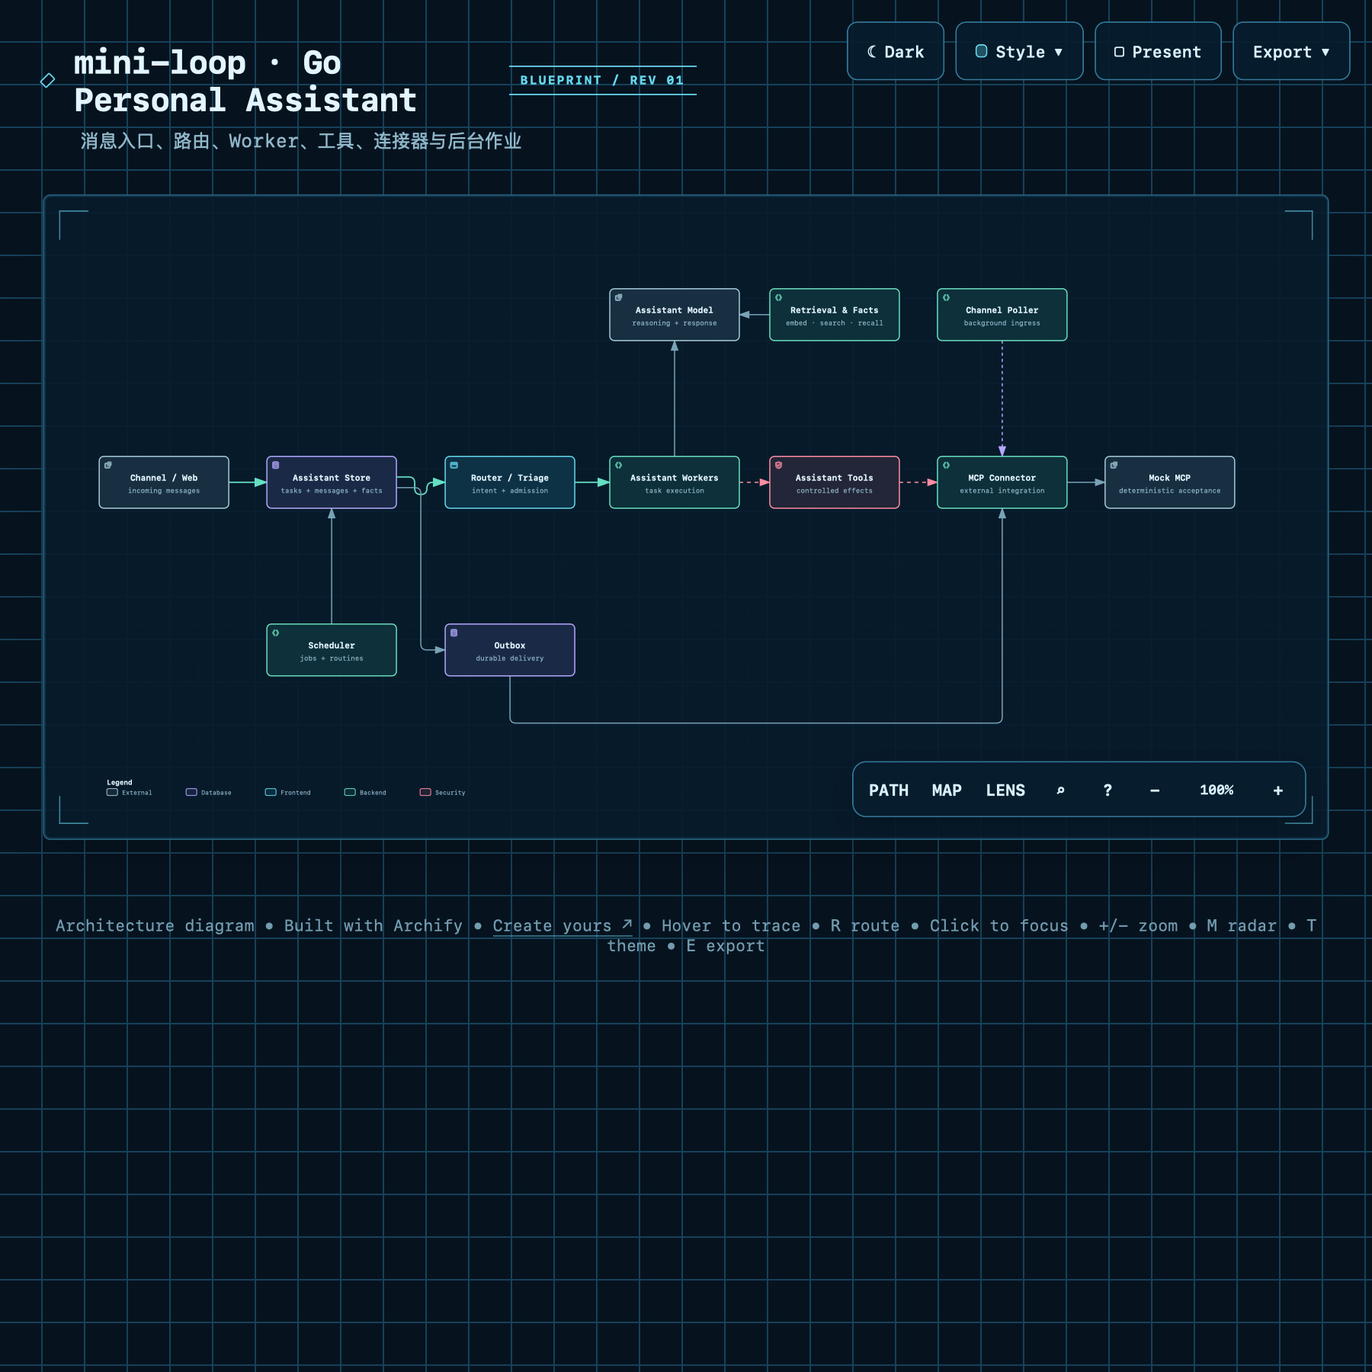
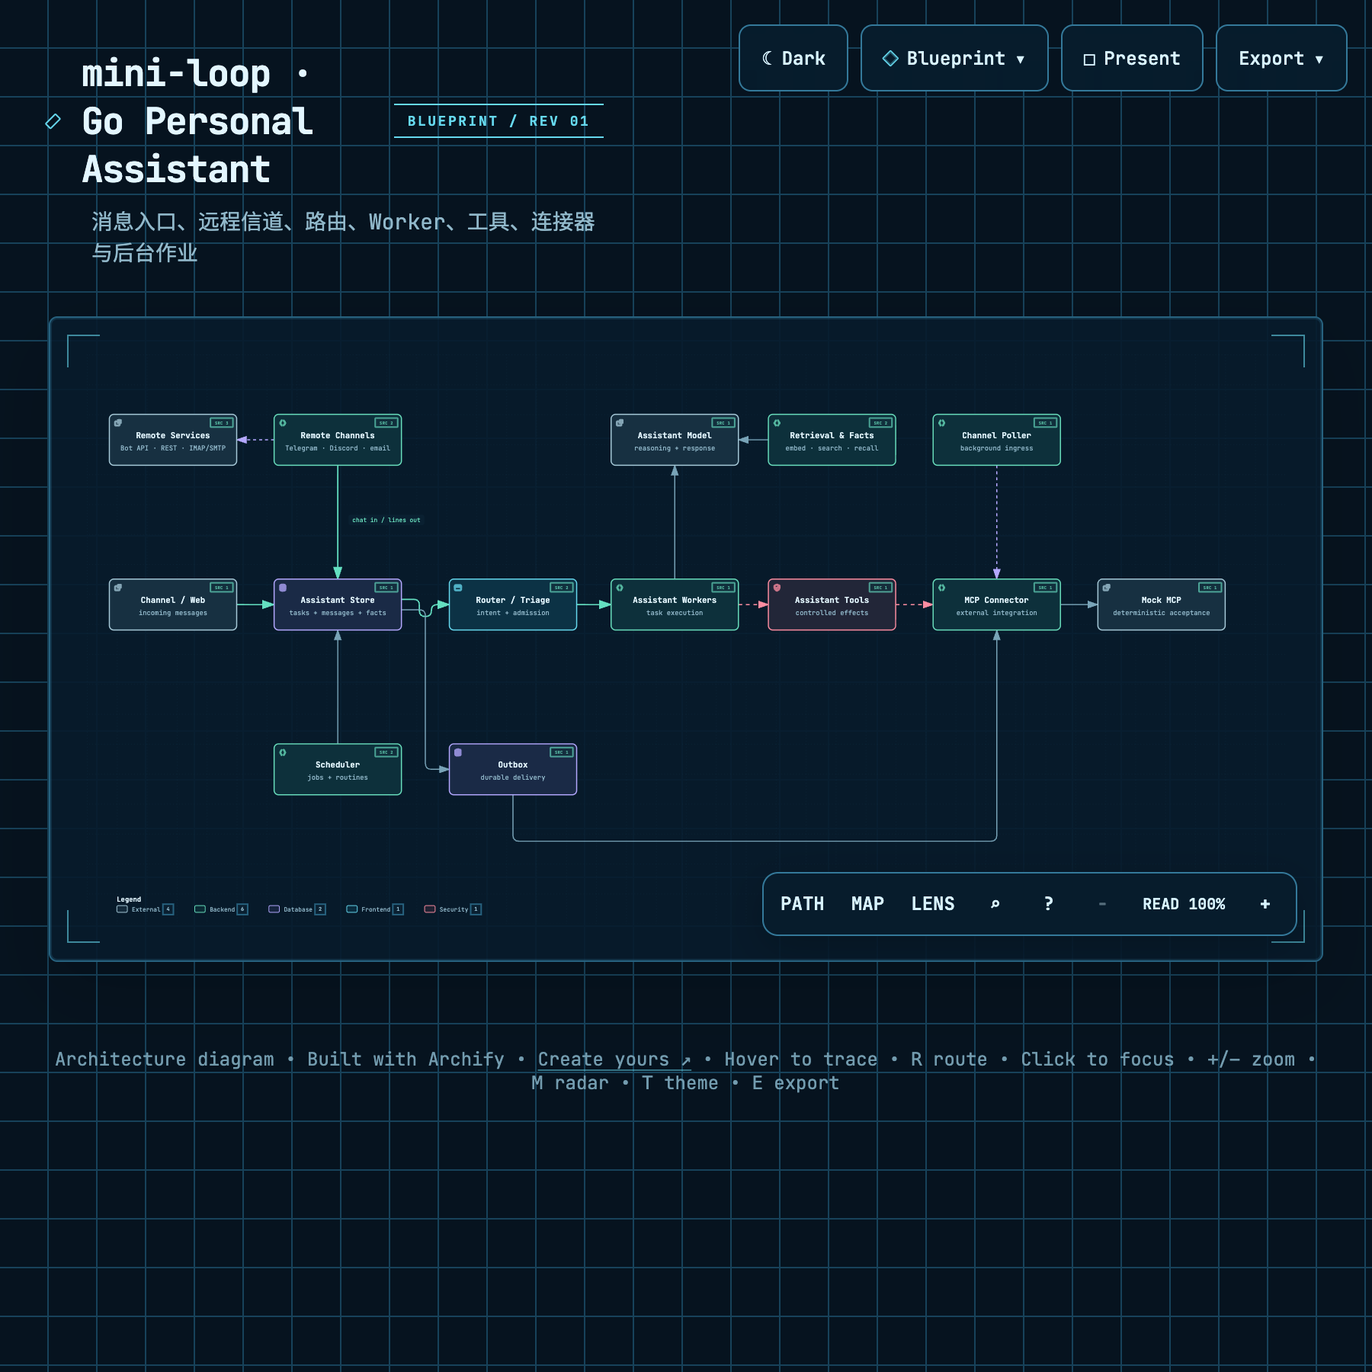
docs(architecture): show remote channels in the personal-assistant view
The focused Go personal-assistant view from 99c5721 now includes the D10
remote channels: a Remote Channels bridge above the store ("chat in / lines
out") and the Telegram, Discord and mail services beside it. The view was
regenerated with Archify (showcase, 9/9, no errors or warnings) against
dbaf48a, and its 1800 px preview was re-rendered.

Claude-Session: https://claude.ai/code/session_011bYGPJ5pexbat7kUKn2czE

diff --git a/docs/architecture/personal-assistant.html b/docs/architecture/personal-assistant.html
@@ -4498,11 +4498,11 @@
         <div class="pulse-dot"></div>
         <h1>mini-loop · Go Personal Assistant</h1>
       </div>
-      <p class="subtitle">消息入口、路由、Worker、工具、连接器与后台作业</p>
+      <p class="subtitle">消息入口、远程信道、路由、Worker、工具、连接器与后台作业</p>
     </div>
 
     <script id="archify-guided-views-data" type="application/json">[]</script>
-    <script id="archify-source-evidence-data" type="application/json">{"schemaVersion":1,"verified":true,"repository":{"url":"https://github.com/luoyjx/mini-loop","revision":"16ee882d9761d9b2c81e17214821da97e6e443b8","shortRevision":"16ee882"},"referenceCount":15,"nodes":{"channel":[{"path":"go/assistant/server.go","href":"https://github.com/luoyjx/mini-loop/blob/16ee882d9761d9b2c81e17214821da97e6e443b8/go/assistant/server.go"}],"store":[{"path":"go/assistant/store.go","href":"https://github.com/luoyjx/mini-loop/blob/16ee882d9761d9b2c81e17214821da97e6e443b8/go/assistant/store.go"}],"router":[{"path":"go/assistant/router.go","href":"https://github.com/luoyjx/mini-loop/blob/16ee882d9761d9b2c81e17214821da97e6e443b8/go/assistant/router.go"},{"path":"go/assistant/triage.go","href":"https://github.com/luoyjx/mini-loop/blob/16ee882d9761d9b2c81e17214821da97e6e443b8/go/assistant/triage.go"}],"workers":[{"path":"go/assistant/tasks.go","href":"https://github.com/luoyjx/mini-loop/blob/16ee882d9761d9b2c81e17214821da97e6e443b8/go/assistant/tasks.go"}],"tools":[{"path":"go/assistant/tools.go","href":"https://github.com/luoyjx/mini-loop/blob/16ee882d9761d9b2c81e17214821da97e6e443b8/go/assistant/tools.go"}],"connector":[{"path":"go/assistant/connector.go","href":"https://github.com/luoyjx/mini-loop/blob/16ee882d9761d9b2c81e17214821da97e6e443b8/go/assistant/connector.go"}],"mock":[{"path":"go/assistant/mockmcp.go","href":"https://github.com/luoyjx/mini-loop/blob/16ee882d9761d9b2c81e17214821da97e6e443b8/go/assistant/mockmcp.go"}],"model":[{"path":"go/assistant/model.go","href":"https://github.com/luoyjx/mini-loop/blob/16ee882d9761d9b2c81e17214821da97e6e443b8/go/assistant/model.go"}],"retrieval":[{"path":"go/assistant/retrieval.go","href":"https://github.com/luoyjx/mini-loop/blob/16ee882d9761d9b2c81e17214821da97e6e443b8/go/assistant/retrieval.go"},{"path":"go/assistant/facts.go","href":"https://github.com/luoyjx/mini-loop/blob/16ee882d9761d9b2c81e17214821da97e6e443b8/go/assistant/facts.go"}],"poller":[{"path":"go/assistant/poller.go","href":"https://github.com/luoyjx/mini-loop/blob/16ee882d9761d9b2c81e17214821da97e6e443b8/go/assistant/poller.go"}],"scheduler":[{"path":"go/assistant/jobs.go","href":"https://github.com/luoyjx/mini-loop/blob/16ee882d9761d9b2c81e17214821da97e6e443b8/go/assistant/jobs.go"},{"path":"go/assistant/routines.go","href":"https://github.com/luoyjx/mini-loop/blob/16ee882d9761d9b2c81e17214821da97e6e443b8/go/assistant/routines.go"}],"outbox":[{"path":"go/assistant/outbox.go","href":"https://github.com/luoyjx/mini-loop/blob/16ee882d9761d9b2c81e17214821da97e6e443b8/go/assistant/outbox.go"}]}}</script>
+    <script id="archify-source-evidence-data" type="application/json">{"schemaVersion":1,"verified":true,"repository":{"url":"https://github.com/luoyjx/mini-loop","revision":"dbaf48affe5889ebfc991208b28480853c4c53c2","shortRevision":"dbaf48a"},"referenceCount":20,"nodes":{"channel":[{"path":"go/assistant/server.go","href":"https://github.com/luoyjx/mini-loop/blob/dbaf48affe5889ebfc991208b28480853c4c53c2/go/assistant/server.go"}],"remoteSvc":[{"path":"go/assistant/telegram.go","href":"https://github.com/luoyjx/mini-loop/blob/dbaf48affe5889ebfc991208b28480853c4c53c2/go/assistant/telegram.go"},{"path":"go/assistant/discord.go","href":"https://github.com/luoyjx/mini-loop/blob/dbaf48affe5889ebfc991208b28480853c4c53c2/go/assistant/discord.go"},{"path":"go/assistant/imap.go","href":"https://github.com/luoyjx/mini-loop/blob/dbaf48affe5889ebfc991208b28480853c4c53c2/go/assistant/imap.go"}],"remote":[{"path":"go/assistant/remote.go","href":"https://github.com/luoyjx/mini-loop/blob/dbaf48affe5889ebfc991208b28480853c4c53c2/go/assistant/remote.go"},{"path":"go/assistant/email.go","href":"https://github.com/luoyjx/mini-loop/blob/dbaf48affe5889ebfc991208b28480853c4c53c2/go/assistant/email.go"}],"store":[{"path":"go/assistant/store.go","href":"https://github.com/luoyjx/mini-loop/blob/dbaf48affe5889ebfc991208b28480853c4c53c2/go/assistant/store.go"}],"router":[{"path":"go/assistant/router.go","href":"https://github.com/luoyjx/mini-loop/blob/dbaf48affe5889ebfc991208b28480853c4c53c2/go/assistant/router.go"},{"path":"go/assistant/triage.go","href":"https://github.com/luoyjx/mini-loop/blob/dbaf48affe5889ebfc991208b28480853c4c53c2/go/assistant/triage.go"}],"workers":[{"path":"go/assistant/tasks.go","href":"https://github.com/luoyjx/mini-loop/blob/dbaf48affe5889ebfc991208b28480853c4c53c2/go/assistant/tasks.go"}],"tools":[{"path":"go/assistant/tools.go","href":"https://github.com/luoyjx/mini-loop/blob/dbaf48affe5889ebfc991208b28480853c4c53c2/go/assistant/tools.go"}],"connector":[{"path":"go/assistant/connector.go","href":"https://github.com/luoyjx/mini-loop/blob/dbaf48affe5889ebfc991208b28480853c4c53c2/go/assistant/connector.go"}],"mock":[{"path":"go/assistant/mockmcp.go","href":"https://github.com/luoyjx/mini-loop/blob/dbaf48affe5889ebfc991208b28480853c4c53c2/go/assistant/mockmcp.go"}],"model":[{"path":"go/assistant/model.go","href":"https://github.com/luoyjx/mini-loop/blob/dbaf48affe5889ebfc991208b28480853c4c53c2/go/assistant/model.go"}],"retrieval":[{"path":"go/assistant/retrieval.go","href":"https://github.com/luoyjx/mini-loop/blob/dbaf48affe5889ebfc991208b28480853c4c53c2/go/assistant/retrieval.go"},{"path":"go/assistant/facts.go","href":"https://github.com/luoyjx/mini-loop/blob/dbaf48affe5889ebfc991208b28480853c4c53c2/go/assistant/facts.go"}],"poller":[{"path":"go/assistant/poller.go","href":"https://github.com/luoyjx/mini-loop/blob/dbaf48affe5889ebfc991208b28480853c4c53c2/go/assistant/poller.go"}],"scheduler":[{"path":"go/assistant/jobs.go","href":"https://github.com/luoyjx/mini-loop/blob/dbaf48affe5889ebfc991208b28480853c4c53c2/go/assistant/jobs.go"},{"path":"go/assistant/routines.go","href":"https://github.com/luoyjx/mini-loop/blob/dbaf48affe5889ebfc991208b28480853c4c53c2/go/assistant/routines.go"}],"outbox":[{"path":"go/assistant/outbox.go","href":"https://github.com/luoyjx/mini-loop/blob/dbaf48affe5889ebfc991208b28480853c4c53c2/go/assistant/outbox.go"}]}}</script>
     <div class="guided-views no-print" id="guided-views" hidden aria-label="Guided diagram views">
       <button id="guided-view-prev" type="button" aria-label="Previous guided view" title="Previous guided view ([)">&#8592;</button>
       <div class="guided-view-copy">
@@ -4546,7 +4546,7 @@
     <div class="diagram-container" data-detail-level="read">
       <svg viewBox="0 0 1600 760" role="img" aria-labelledby="archify-diagram-title archify-diagram-description" data-preset="blueprint" data-quality-profile="showcase">
         <title id="archify-diagram-title">mini-loop · Go Personal Assistant</title>
-        <desc id="archify-diagram-description">消息入口、路由、Worker、工具、连接器与后台作业</desc>
+        <desc id="archify-diagram-description">消息入口、远程信道、路由、Worker、工具、连接器与后台作业</desc>
         <!-- Definitions -->
         <defs>
           <marker id="arrowhead" markerWidth="10" markerHeight="7" refX="9" refY="3.5" orient="auto">
@@ -4574,17 +4574,19 @@
 
         <!-- Connection paths (before components for correct z-order) -->
         <path data-edge-from="channel" data-edge-to="store" data-edge-key="0" data-edge-id="ingest" data-composition-points="200,334;250,334" d="M 200 334 L 250 334" class="a-emphasis" stroke-width="1.8" marker-end="url(#arrowhead-emphasis)"/>
-        <path data-edge-from="store" data-edge-to="router" data-edge-key="1" data-edge-id="route" data-composition-points="420,327;444,327;444,350;460,350;460,334;484,334" d="M 420 327 L 436 327 Q 444 327 444 335 L 444 342 Q 444 350 452 350 L 452 350 Q 460 350 460 342 L 460 342 Q 460 334 468 334 L 484 334" class="a-emphasis" stroke-width="1.8" marker-end="url(#arrowhead-emphasis)"/>
-        <path data-edge-from="router" data-edge-to="workers" data-edge-key="2" data-edge-id="dispatch" data-composition-points="654,334;700,334" d="M 654 334 L 700 334" class="a-emphasis" stroke-width="1.8" marker-end="url(#arrowhead-emphasis)"/>
-        <path data-edge-from="workers" data-edge-to="tools" data-edge-key="3" data-edge-id="act" data-composition-points="870,334;910,334" d="M 870 334 L 910 334" class="a-security" stroke-width="1.5" marker-end="url(#arrowhead-security)"/>
-        <path data-edge-from="tools" data-edge-to="connector" data-edge-key="4" data-edge-id="connect" data-composition-points="1080,334;1130,334" d="M 1080 334 L 1130 334" class="a-security" stroke-width="1.5" marker-end="url(#arrowhead-security)"/>
-        <path data-edge-from="connector" data-edge-to="mock" data-edge-key="5" data-edge-id="accept" data-composition-points="1300,334;1350,334" d="M 1300 334 L 1350 334" class="a-default" stroke-width="1.5" marker-end="url(#arrowhead)"/>
-        <path data-edge-from="workers" data-edge-to="model" data-edge-key="6" data-edge-id="reason" data-composition-points="785,300;785,148" d="M 785 300 L 785 148" class="a-default" stroke-width="1.5" marker-end="url(#arrowhead)"/>
-        <path data-edge-from="retrieval" data-edge-to="model" data-edge-key="7" data-edge-id="recall" data-composition-points="910,114;870,114" d="M 910 114 L 870 114" class="a-default" stroke-width="1.5" marker-end="url(#arrowhead)"/>
-        <path data-edge-from="poller" data-edge-to="connector" data-edge-key="8" data-edge-id="poll" data-composition-points="1215,148;1215,300" d="M 1215 148 L 1215 300" class="a-dashed" stroke-width="1.5" marker-end="url(#arrowhead-dashed)"/>
-        <path data-edge-from="scheduler" data-edge-to="store" data-edge-key="9" data-edge-id="schedule" data-composition-points="335,520;335,368" d="M 335 520 L 335 368" class="a-default" stroke-width="1.5" marker-end="url(#arrowhead)"/>
-        <path data-edge-from="store" data-edge-to="outbox" data-edge-key="10" data-edge-id="enqueue" data-composition-points="420,341;452,341;452,554;484,554" d="M 420 341 L 444 341 Q 452 341 452 349 L 452 546 Q 452 554 460 554 L 484 554" class="a-default" stroke-width="1.5" marker-end="url(#arrowhead)"/>
-        <path data-edge-from="outbox" data-edge-to="connector" data-edge-key="11" data-edge-id="deliver" data-composition-points="569,588;569,650;1215,650;1215,368" d="M 569 588 L 569 642 Q 569 650 577 650 L 1207 650 Q 1215 650 1215 642 L 1215 368" class="a-default" stroke-width="1.5" marker-end="url(#arrowhead)"/>
+        <path data-edge-from="remote" data-edge-to="store" data-edge-label="chat in / lines out" data-edge-key="1" data-edge-id="remoteChat" data-composition-points="335,148;335,300" d="M 335 148 L 335 300" class="a-emphasis" stroke-width="1.8" marker-end="url(#arrowhead-emphasis)"/>
+        <path data-edge-from="remote" data-edge-to="remoteSvc" data-edge-key="2" data-edge-id="remoteCall" data-composition-points="250,114;200,114" d="M 250 114 L 200 114" class="a-dashed" stroke-width="1.5" marker-end="url(#arrowhead-dashed)"/>
+        <path data-edge-from="store" data-edge-to="router" data-edge-key="3" data-edge-id="route" data-composition-points="420,327;444,327;444,350;460,350;460,334;484,334" d="M 420 327 L 436 327 Q 444 327 444 335 L 444 342 Q 444 350 452 350 L 452 350 Q 460 350 460 342 L 460 342 Q 460 334 468 334 L 484 334" class="a-emphasis" stroke-width="1.8" marker-end="url(#arrowhead-emphasis)"/>
+        <path data-edge-from="router" data-edge-to="workers" data-edge-key="4" data-edge-id="dispatch" data-composition-points="654,334;700,334" d="M 654 334 L 700 334" class="a-emphasis" stroke-width="1.8" marker-end="url(#arrowhead-emphasis)"/>
+        <path data-edge-from="workers" data-edge-to="tools" data-edge-key="5" data-edge-id="act" data-composition-points="870,334;910,334" d="M 870 334 L 910 334" class="a-security" stroke-width="1.5" marker-end="url(#arrowhead-security)"/>
+        <path data-edge-from="tools" data-edge-to="connector" data-edge-key="6" data-edge-id="connect" data-composition-points="1080,334;1130,334" d="M 1080 334 L 1130 334" class="a-security" stroke-width="1.5" marker-end="url(#arrowhead-security)"/>
+        <path data-edge-from="connector" data-edge-to="mock" data-edge-key="7" data-edge-id="accept" data-composition-points="1300,334;1350,334" d="M 1300 334 L 1350 334" class="a-default" stroke-width="1.5" marker-end="url(#arrowhead)"/>
+        <path data-edge-from="workers" data-edge-to="model" data-edge-key="8" data-edge-id="reason" data-composition-points="785,300;785,148" d="M 785 300 L 785 148" class="a-default" stroke-width="1.5" marker-end="url(#arrowhead)"/>
+        <path data-edge-from="retrieval" data-edge-to="model" data-edge-key="9" data-edge-id="recall" data-composition-points="910,114;870,114" d="M 910 114 L 870 114" class="a-default" stroke-width="1.5" marker-end="url(#arrowhead)"/>
+        <path data-edge-from="poller" data-edge-to="connector" data-edge-key="10" data-edge-id="poll" data-composition-points="1215,148;1215,300" d="M 1215 148 L 1215 300" class="a-dashed" stroke-width="1.5" marker-end="url(#arrowhead-dashed)"/>
+        <path data-edge-from="scheduler" data-edge-to="store" data-edge-key="11" data-edge-id="schedule" data-composition-points="335,520;335,368" d="M 335 520 L 335 368" class="a-default" stroke-width="1.5" marker-end="url(#arrowhead)"/>
+        <path data-edge-from="store" data-edge-to="outbox" data-edge-key="12" data-edge-id="enqueue" data-composition-points="420,341;452,341;452,554;484,554" d="M 420 341 L 444 341 Q 452 341 452 349 L 452 546 Q 452 554 460 554 L 484 554" class="a-default" stroke-width="1.5" marker-end="url(#arrowhead)"/>
+        <path data-edge-from="outbox" data-edge-to="connector" data-edge-key="13" data-edge-id="deliver" data-composition-points="569,588;569,650;1215,650;1215,368" d="M 569 588 L 569 642 Q 569 650 577 650 L 1207 650 Q 1215 650 1215 642 L 1215 368" class="a-default" stroke-width="1.5" marker-end="url(#arrowhead)"/>
 
         <!-- Components -->
         <g id="node-channel" data-node-id="channel" data-node-label="Channel / Web" tabindex="0" role="button" aria-label="Focus Channel / Web, incoming messages, Architecture component" aria-pressed="false" data-node-kind="external" data-node-sublabel="incoming messages" data-node-context="Architecture component">
@@ -4597,6 +4599,29 @@
           </g>
           <text data-detail-anchor x="115" y="332" class="t-primary" font-size="11" font-weight="600" text-anchor="middle">Channel / Web</text>
         <text data-detail="context" x="115" y="348" class="t-muted" font-size="9" text-anchor="middle">incoming messages</text>
+        </g>
+
+        <g id="node-remoteSvc" data-node-id="remoteSvc" data-node-label="Remote Services" tabindex="0" role="button" aria-label="Focus Remote Services, Bot API · REST · IMAP/SMTP, Architecture component" aria-pressed="false" data-node-kind="external" data-node-sublabel="Bot API · REST · IMAP/SMTP" data-node-context="Architecture component">
+          <title>Remote Services · Bot API · REST · IMAP/SMTP · Architecture component</title>
+          <rect x="30" y="80" width="170" height="68" rx="6" class="c-mask"/>
+          <rect x="30" y="80" width="170" height="68" rx="6" class="c-external" stroke-width="1.5"/>
+          <g aria-hidden="true" data-semantic-sigil="external" class="semantic-sigil s-external" transform="translate(36 86) scale(0.6875)">
+            <rect x="2.5" y="5" width="8.5" height="8" rx="1.5"/>
+            <path d="M8 2.5h5.5V8M13.5 2.5 7.5 8.5"/>
+          </g>
+          <text data-detail-anchor x="115" y="112" class="t-primary" font-size="11" font-weight="600" text-anchor="middle">Remote Services</text>
+        <text data-detail="context" x="115" y="128" class="t-muted" font-size="9" text-anchor="middle">Bot API · REST · IMAP/SMTP</text>
+        </g>
+
+        <g id="node-remote" data-node-id="remote" data-node-label="Remote Channels" tabindex="0" role="button" aria-label="Focus Remote Channels, Telegram · Discord · email, Architecture component" aria-pressed="false" data-node-kind="backend" data-node-sublabel="Telegram · Discord · email" data-node-context="Architecture component">
+          <title>Remote Channels · Telegram · Discord · email · Architecture component</title>
+          <rect x="250" y="80" width="170" height="68" rx="6" class="c-mask"/>
+          <rect x="250" y="80" width="170" height="68" rx="6" class="c-backend" stroke-width="1.5"/>
+          <g aria-hidden="true" data-semantic-sigil="backend" class="semantic-sigil s-backend" transform="translate(256 86) scale(0.6875)">
+            <path d="M6 3 3 8l3 5M10 3l3 5-3 5"/>
+          </g>
+          <text data-detail-anchor x="335" y="112" class="t-primary" font-size="11" font-weight="600" text-anchor="middle">Remote Channels</text>
+        <text data-detail="context" x="335" y="128" class="t-muted" font-size="9" text-anchor="middle">Telegram · Discord · email</text>
         </g>
 
         <g id="node-store" data-node-id="store" data-node-label="Assistant Store" tabindex="0" role="button" aria-label="Focus Assistant Store, tasks + messages + facts, Architecture component" aria-pressed="false" data-node-kind="database" data-node-sublabel="tasks + messages + facts" data-node-context="Architecture component">
@@ -4730,6 +4755,11 @@
 
         <!-- Connection labels -->
 
+        <g data-detail="context" data-edge-from="remote" data-edge-to="store" data-edge-label="chat in / lines out" data-edge-key="1" data-edge-id="remoteChat">
+          <rect x="349.4" y="214" width="101.2" height="14" rx="3" class="c-mask"/>
+          <text x="400" y="224" class="t-backend" font-size="8" text-anchor="middle">chat in / lines out</text>
+        </g>
+
 
 
 
@@ -4749,17 +4779,17 @@
             <rect x="40" y="736" width="14" height="9" rx="2" class="c-external" stroke-width="1"/>
             <text x="60" y="744" class="t-muted" font-size="8">External</text>
           </g>
+          <g data-legend-kind="backend">
+            <rect x="144" y="736" width="14" height="9" rx="2" class="c-backend" stroke-width="1"/>
+            <text x="164" y="744" class="t-muted" font-size="8">Backend</text>
+          </g>
           <g data-legend-kind="database">
-            <rect x="144" y="736" width="14" height="9" rx="2" class="c-database" stroke-width="1"/>
-            <text x="164" y="744" class="t-muted" font-size="8">Database</text>
+            <rect x="243" y="736" width="14" height="9" rx="2" class="c-database" stroke-width="1"/>
+            <text x="263" y="744" class="t-muted" font-size="8">Database</text>
           </g>
           <g data-legend-kind="frontend">
-            <rect x="248" y="736" width="14" height="9" rx="2" class="c-frontend" stroke-width="1"/>
-            <text x="268" y="744" class="t-muted" font-size="8">Frontend</text>
-          </g>
-          <g data-legend-kind="backend">
-            <rect x="352" y="736" width="14" height="9" rx="2" class="c-backend" stroke-width="1"/>
-            <text x="372" y="744" class="t-muted" font-size="8">Backend</text>
+            <rect x="347" y="736" width="14" height="9" rx="2" class="c-frontend" stroke-width="1"/>
+            <text x="367" y="744" class="t-muted" font-size="8">Frontend</text>
           </g>
           <g data-legend-kind="security">
             <rect x="451" y="736" width="14" height="9" rx="2" class="c-security" stroke-width="1"/>

diff --git a/docs/architecture/README.md b/docs/architecture/README.md
@@ -17,7 +17,7 @@ authority boundaries.
 | Deep Agents server | Authenticated API, queue, worker, graph and persistence | [HTML](deepagents-server.html) | [PNG](deepagents-server.png) | [JSON](deepagents-server.architecture.json) |
 | Temporal prototype | Default-off prototype workflow, activities and fixture | [HTML](temporal-prototype.html) | [PNG](temporal-prototype.png) | [JSON](temporal-prototype.architecture.json) |
 | Current Task server | Production API, Temporal History, Workflow, Activity and trace | [HTML](task-server.html) | [PNG](task-server.png) | [JSON](task-server.architecture.json) |
-| Go personal assistant | Channel, store, routing, workers, tools and connector | [HTML](personal-assistant.html) | [PNG](personal-assistant.png) | [JSON](personal-assistant.architecture.json) |
+| Go personal assistant | Channel, remote channels, store, routing, workers, tools and connector | [HTML](personal-assistant.html) | [PNG](personal-assistant.png) | [JSON](personal-assistant.architecture.json) |
 
 Use the HTML artifacts for zooming, path tracing, light/dark themes and export.
 Use the PNGs for quick previews in Markdown or review tools. Regenerate each
@@ -28,3 +28,9 @@ All six specifications were validated with Archify's `showcase` profile against
 repository revision `16ee882d9761d9b2c81e17214821da97e6e443b8`. Each passed
 all nine layout checks with zero errors and zero warnings. Visual inspection used
 the committed 1800 px PNG renders.
+
+After D10 added the opt-in Telegram, Discord and email channels, the Go
+personal-assistant view was revalidated against revision
+`dbaf48affe5889ebfc991208b28480853c4c53c2`. It passed all nine checks with zero
+errors and zero warnings. Its 1800 px PNG was re-rendered from a 900 px
+dark-theme viewport at 2x.

diff --git a/docs/audits/go-assistant-channels-2026-11-11.md b/docs/audits/go-assistant-channels-2026-11-11.md
@@ -233,6 +233,12 @@ Mac. The canvas grows to 6300 px, and three connections are added.
   border at x=12. The left margin carries the health board's "problems" label, and
   every inner corridor would cross the scheduler's `calendar_list` edge.
 
+The focused personal-assistant view under `docs/architecture/`, added upstream by
+`99c5721`, gains the same two nodes: Remote Channels above the store, with a
+"chat in / lines out" edge into it, and Remote Services to its left. The view was
+regenerated with Archify (9/9, 0 errors, 0 warnings) and its 1800 px preview
+re-rendered.
+
 The layered base image was edited once with imagegen and serves as the new base
 and this iteration's highlight. In the bottom band:
 
